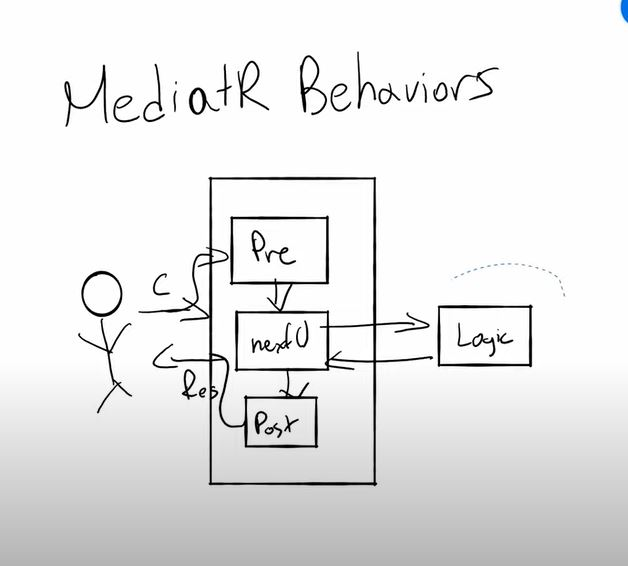
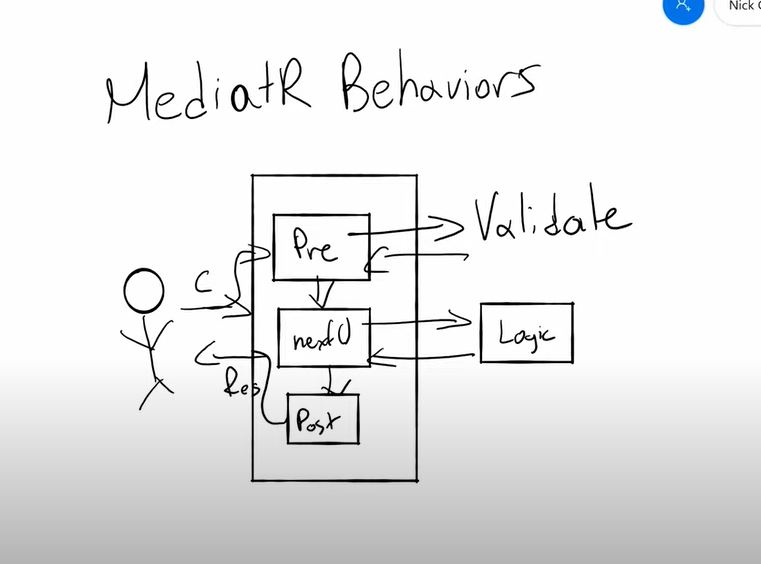
mediatR pipleline coded

Changed region(s): [[0.121, 0.3014, 0.8471, 0.8741], [0.0908, 0.0904, 0.7866, 0.2411], [0.8471, 0.0, 1.0, 0.0603]]

diff --git a/MediatRSample/MediatRSample/Startup.cs b/MediatRSample/MediatRSample/Startup.cs
@@ -3,6 +3,7 @@ using System.Collections.Generic;
 using System.Linq;
 using System.Threading.Tasks;
 using MediatR;
+using MediatRSample.PipelineBehavior;
 using Microsoft.AspNetCore.Builder;
 using Microsoft.AspNetCore.Hosting;
 using Microsoft.AspNetCore.HttpsPolicy;
@@ -27,7 +28,11 @@ namespace MediatRSample
         public void ConfigureServices(IServiceCollection services)
         {
             services.AddControllers();
+            //MediatR registration
             services.AddMediatR(typeof(Startup));
+            services.AddTransient(typeof(IPipelineBehavior<,>), typeof(ValidationBehavior<,>));
+
+
         }
 
         // This method gets called by the runtime. Use this method to configure the HTTP request pipeline.

diff --git a/MediatRSample/MediatRSample/PipelineBehavior/ValidationBehavior.cs b/MediatRSample/MediatRSample/PipelineBehavior/ValidationBehavior.cs
@@ -1,0 +1,21 @@
+using MediatR;
+using System;
+using System.Collections.Generic;
+using System.Linq;
+using System.Threading;
+using System.Threading.Tasks;
+
+namespace MediatRSample.PipelineBehavior
+{
+    public class ValidationBehavior<TRequest, TResponse> : IPipelineBehavior<TRequest, TResponse>
+    {
+
+        //We can have Constructor and can inject any object here....
+        public Task<TResponse> Handle(TRequest request, CancellationToken cancellationToken, RequestHandlerDelegate<TResponse> next)
+        {
+            //Pre
+            return next();
+            //Post
+        }
+    }
+}

diff --git a/MediatRSample/MediatRSample/Controllers/OrderController.cs b/MediatRSample/MediatRSample/Controllers/OrderController.cs
@@ -20,7 +20,7 @@ namespace MediatRSample.Controllers
             _mediator = mediator;
         }
         [HttpGet("getorder/{OrderId}")]
-        public async  Task<IActionResult> GetOrder(GetOrderRequest request)
+        public async  Task<IActionResult> GetOrder([FromRoute]GetOrderRequest request)
         {
             var id = RouteData.Values["OrderId"];
             return Ok(await _mediator.Send<List<OrderResponse>>(request));

diff --git a/README.md b/README.md
@@ -27,5 +27,20 @@ MediatR helps reducing the dependency injections on a service by identfy the dep
     Other than routing our request to a correct handler there is another facility is in MediatR is call MediatR PipeLine.<br>
         Request comes to mediatR but this time there is three level of layer <b>Pre, Next, Post</b><br>
         We can have our Validation, Begin transaction in this pre layer, Next will call the actual logic and post we can commit or rollback our transaction.<br>
-        <img src="./images/MediatRPipeline.JPG" />
+        <img src="./images/MediatRPipeline.JPG" /><br>
+        If you want to use Fluent validation we need to add Fluent validation Nuget package and Fluent Validator Dependency injection package.
+        <br>
+        We can implememnt MediatR piple simpley create class that implement <b>IPipelineBehavior</b> and register its dependency in the startup.cs
+        <pre>
+            public class ValidationBehavior&lt;TRequest, TResponse&gt; : IPipelineBehavior&lt;TRequest, TResponse&gt;
+            {
+                //We can have Constructor and can inject any object here....
+                public Task&lt;TResponse&gt; Handle(TRequest request, CancellationToken cancellationToken, RequestHandlerDelegate&lt;TResponse&gt; next)
+                {
+                    //Pre
+                    return next();
+                    //Post
+                }
+            }
+        </pre>
 </p>
